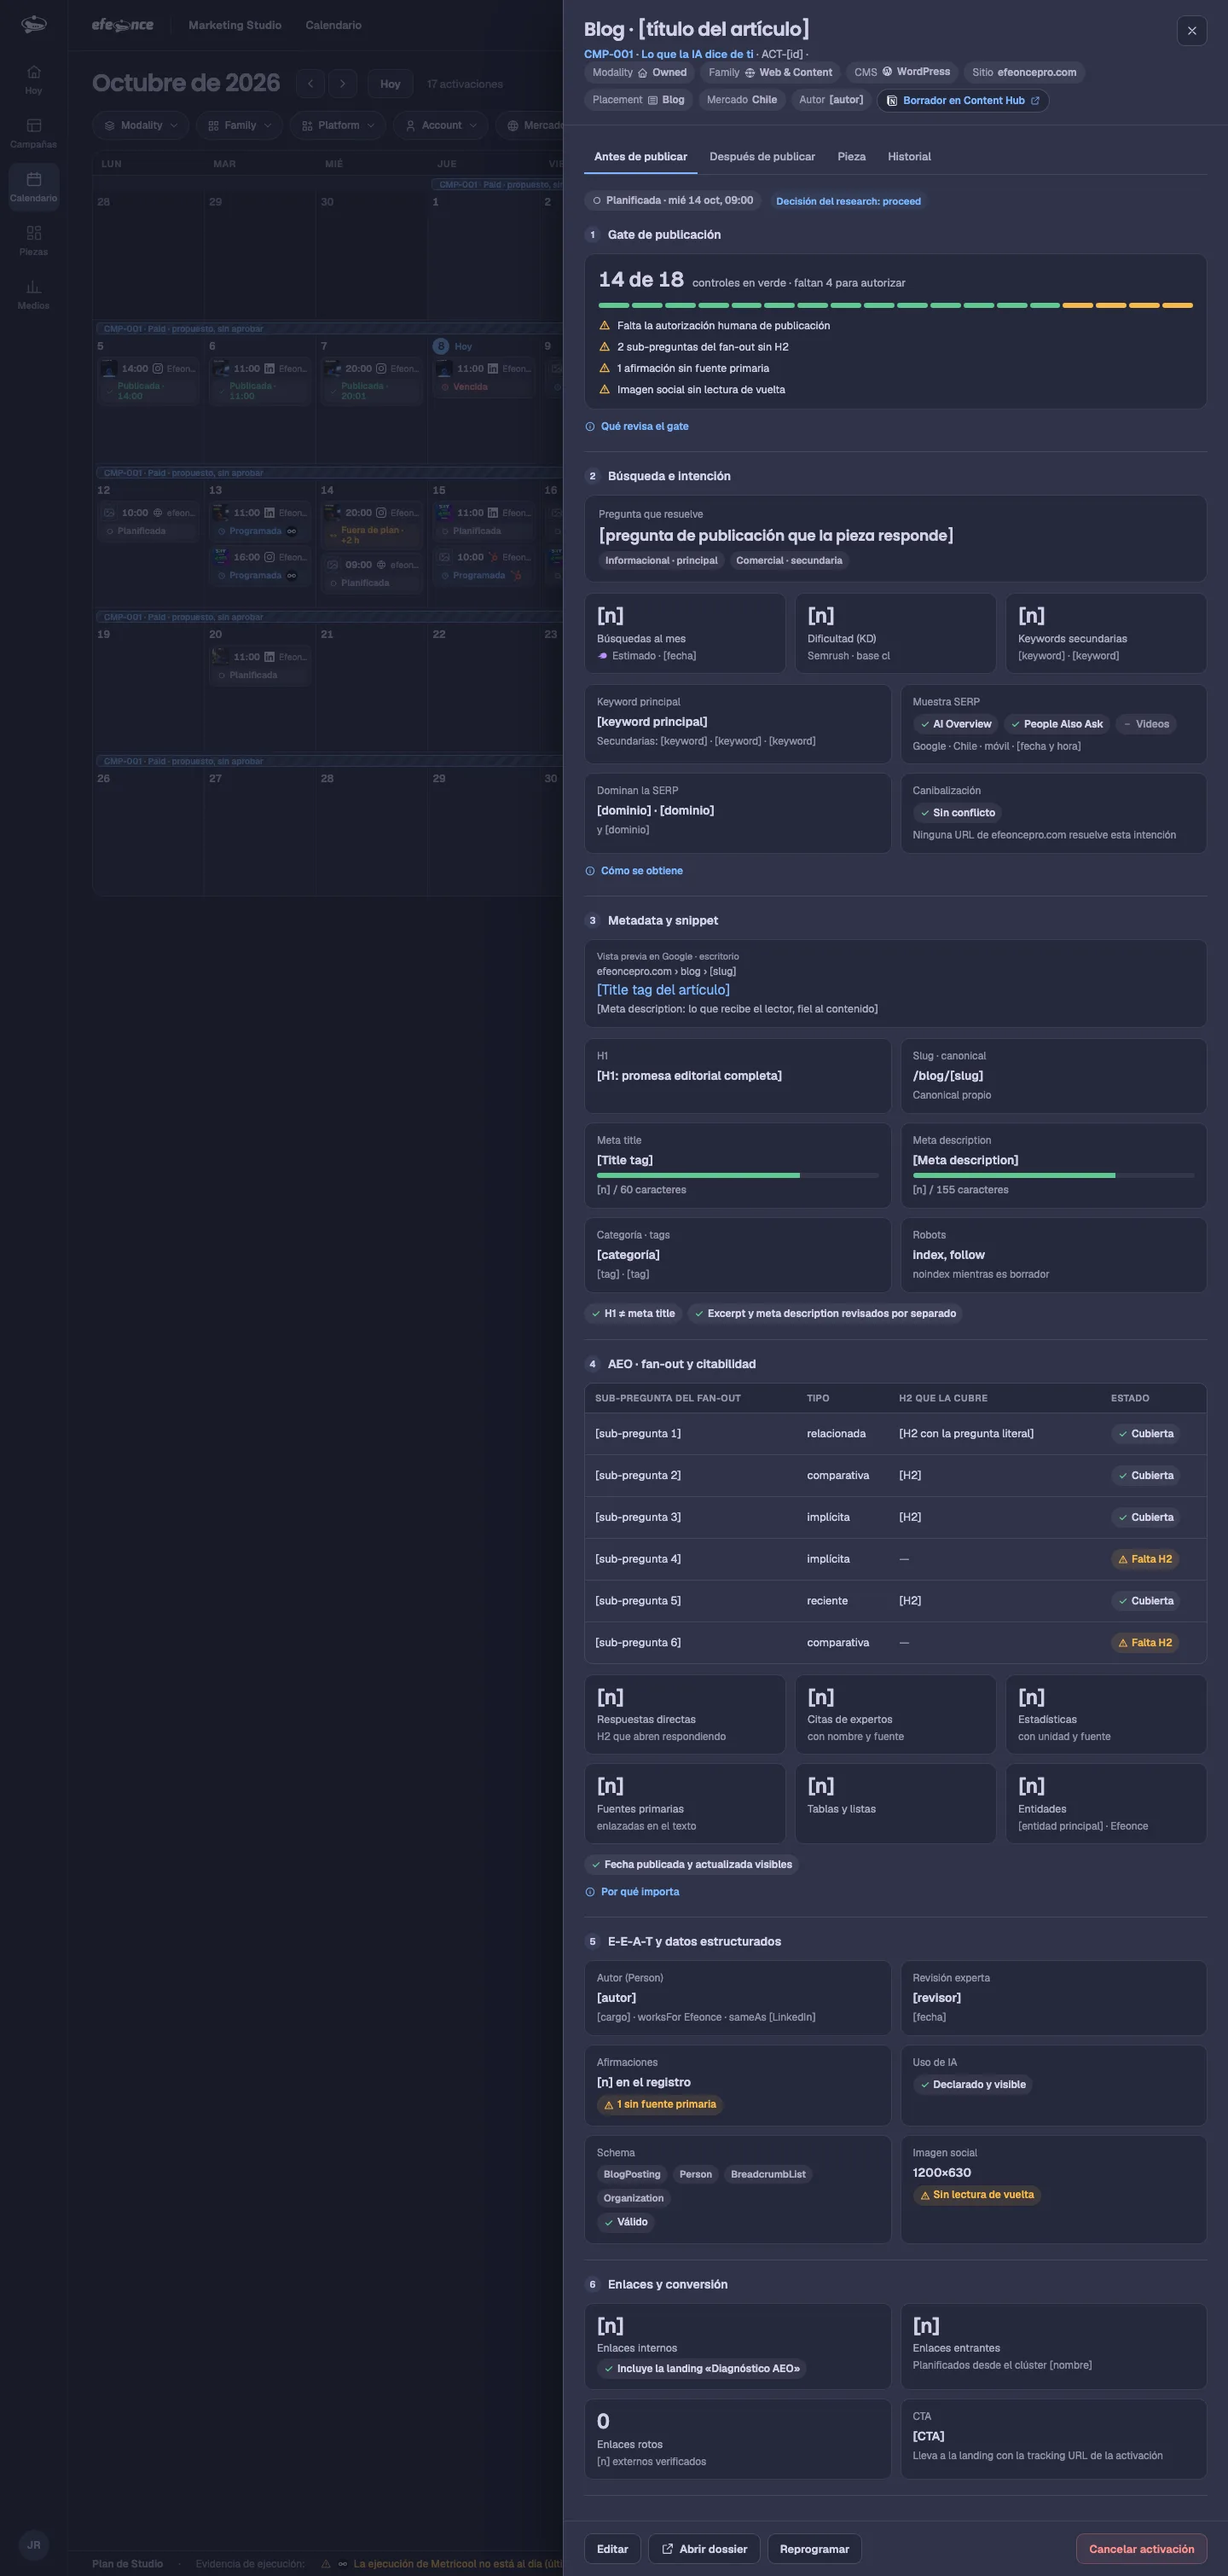
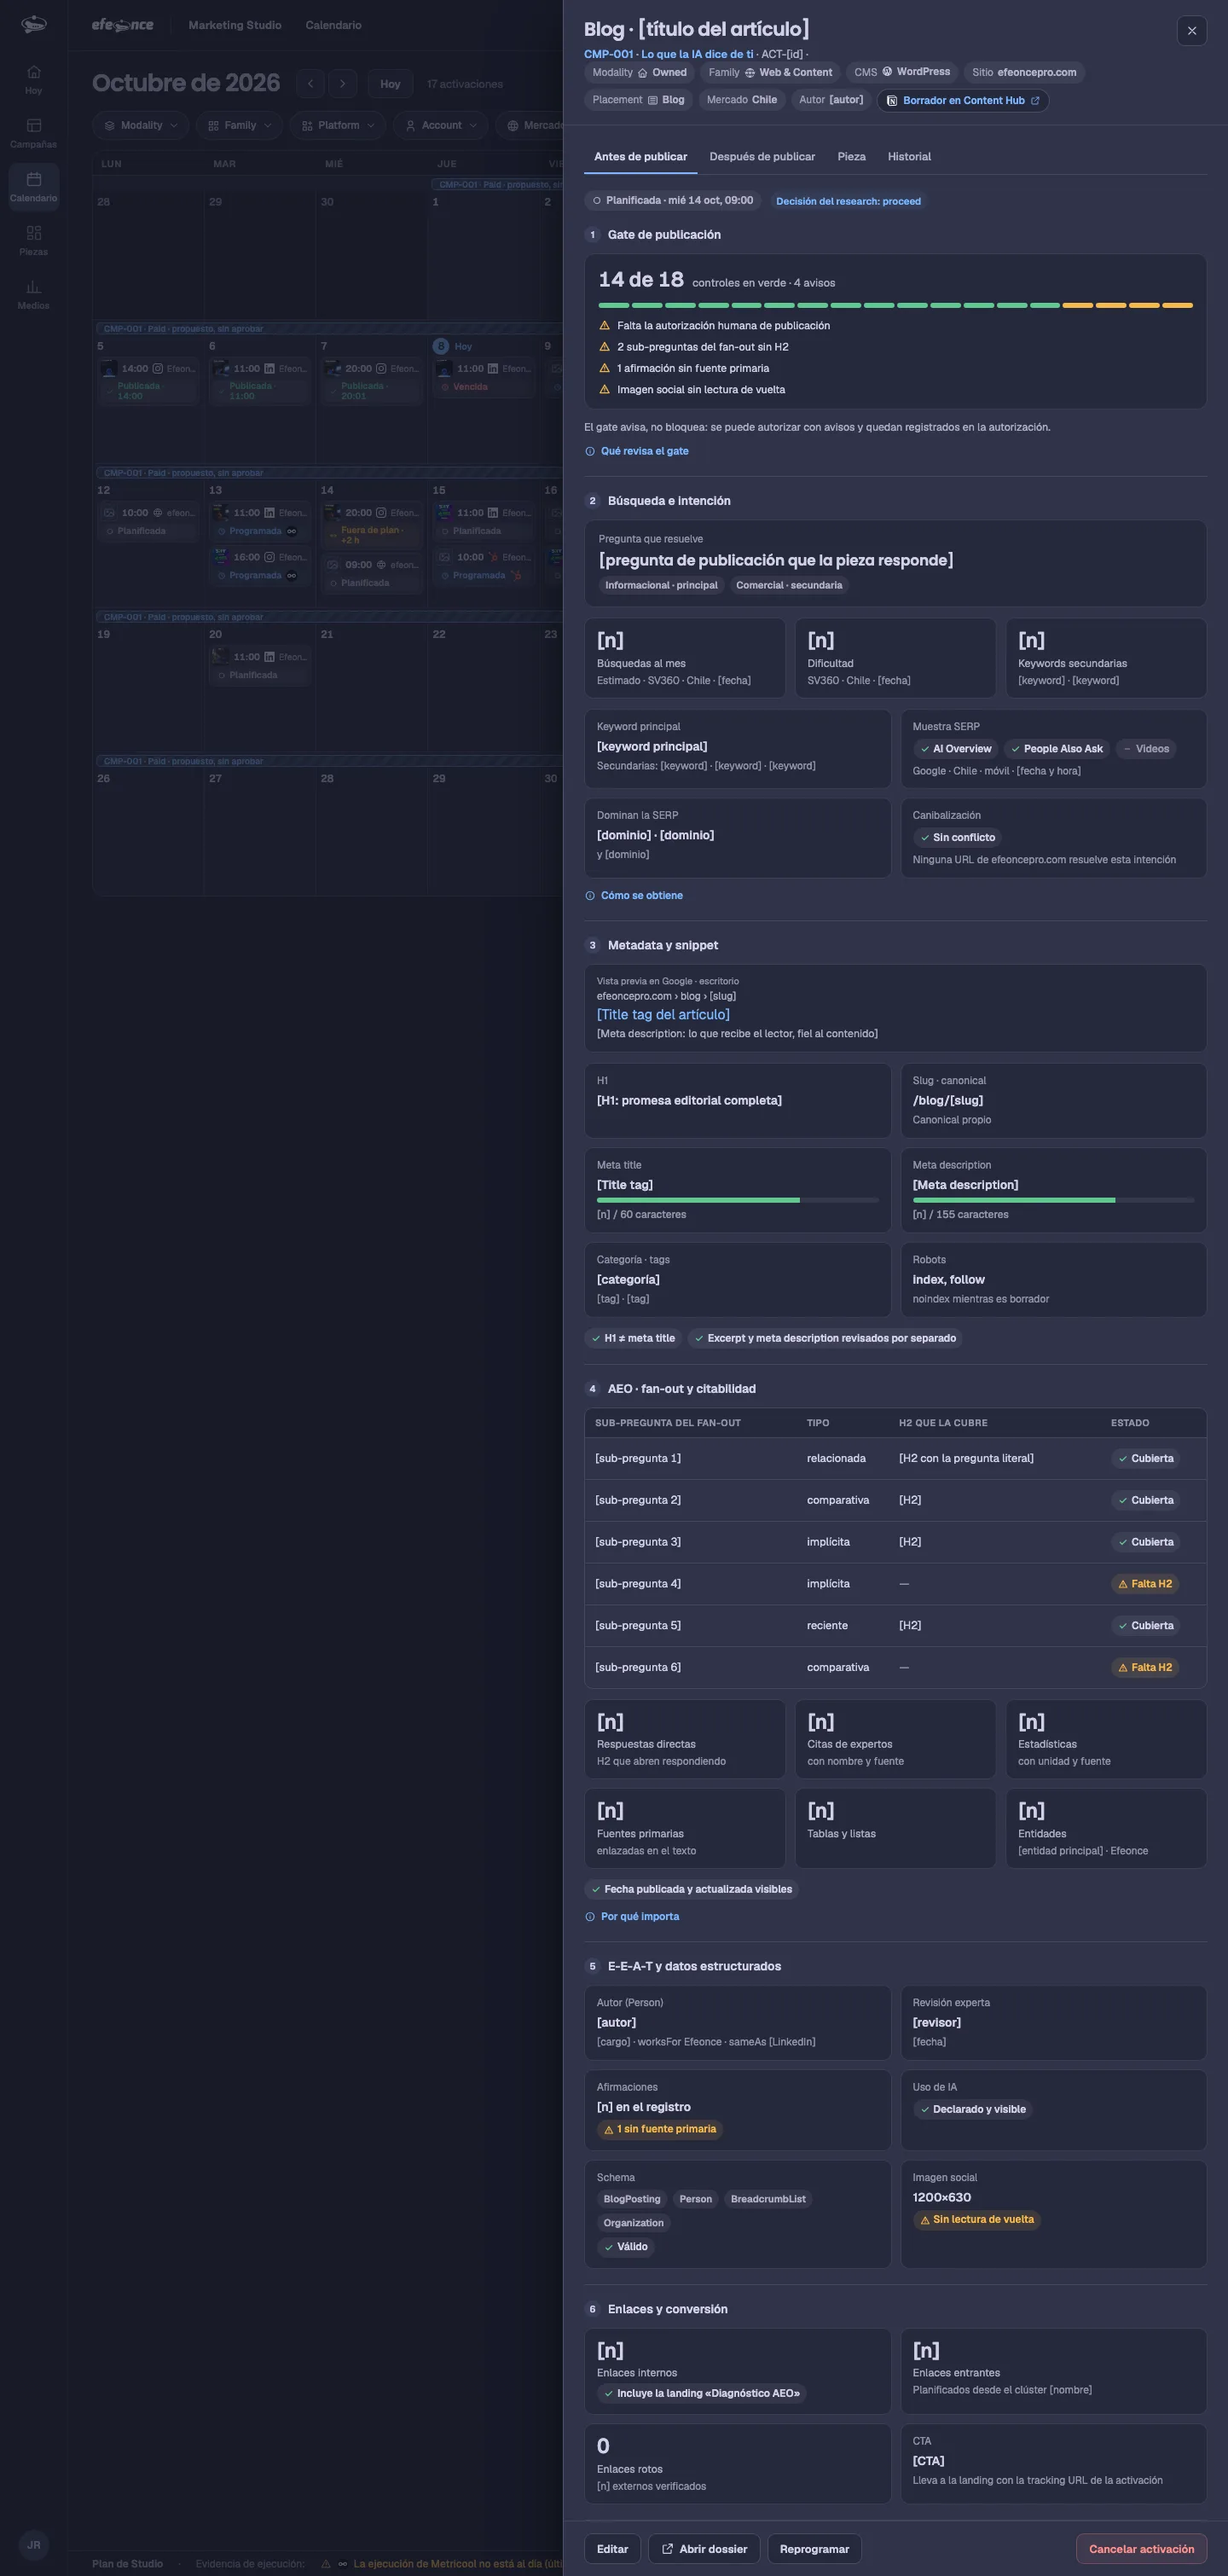
docs(TASK-2002): blog — volumen desde SV360, panel de IA por clúster y gate que sólo avisa

diff --git a/docs/tasks/to-do/TASK-2002-marketing-studio-activations-calendar-ui.md b/docs/tasks/to-do/TASK-2002-marketing-studio-activations-calendar-ui.md
@@ -20,8 +20,10 @@ incorporados. Renders: `approved-v32-blogpre*.webp` y `approved-v32-blogpost*.we
 - Studio no publica: registra la autorización y lee la evidencia; el contrato de datos está en el delta «(blog)» de
   TASK-2001. El dossier SEO/AEO y su medición quedan como follow-up de contrato, así que esta UI muestra esas secciones
   vacías («no medido») hasta que exista.
-- Pendientes del operador: fuente principal de volumen (Semrush o SV360), panel de prompts por campaña o por clúster, y
-  si el gate bloquea la autorización o sólo avisa.
+- Decidido por el operador: volumen y dificultad desde el **SV360** («Estimado · SV360 · Chile · [fecha]»); panel de
+  prompts **por clúster temático** («Medido · panel del clúster [nombre]»); el gate **sólo avisa** («N de 18 · M avisos»
+  y «El gate avisa, no bloquea: se puede autorizar con avisos y quedan registrados en la autorización»). Renders
+  actualizados.
 
 ## Delta 2026-10-04 (posterior) — dirección visual aprobada
 
